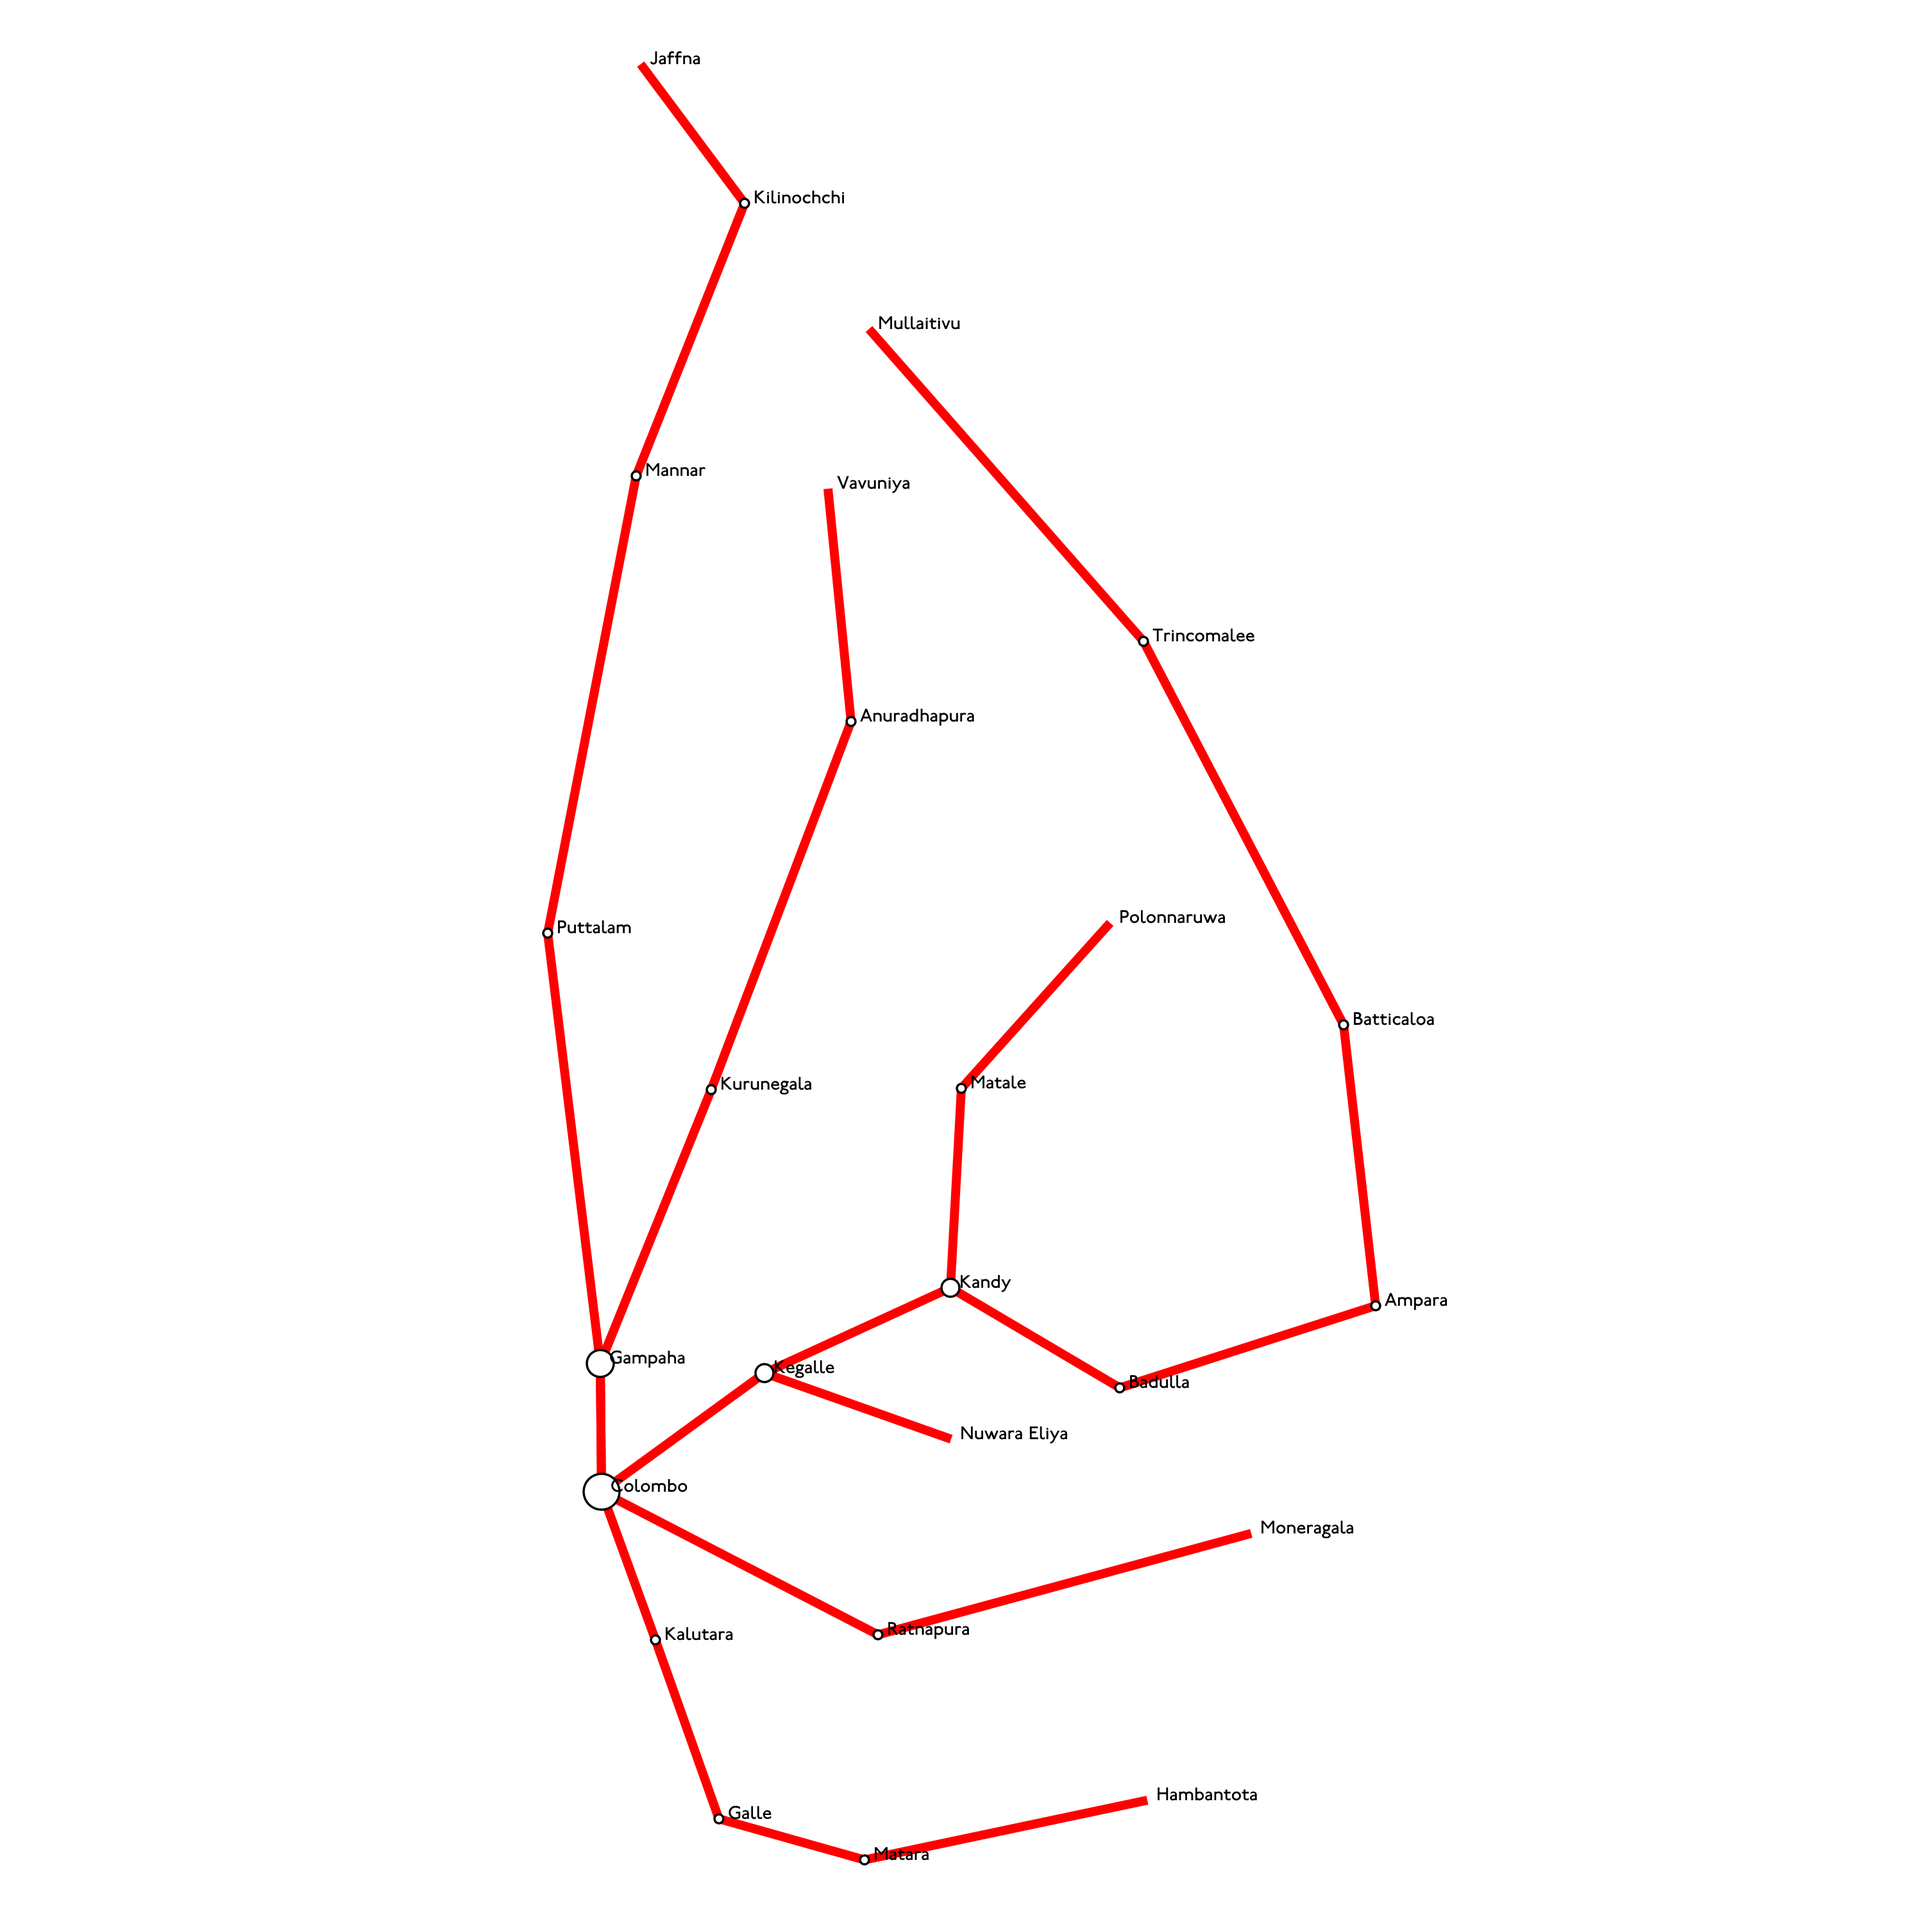
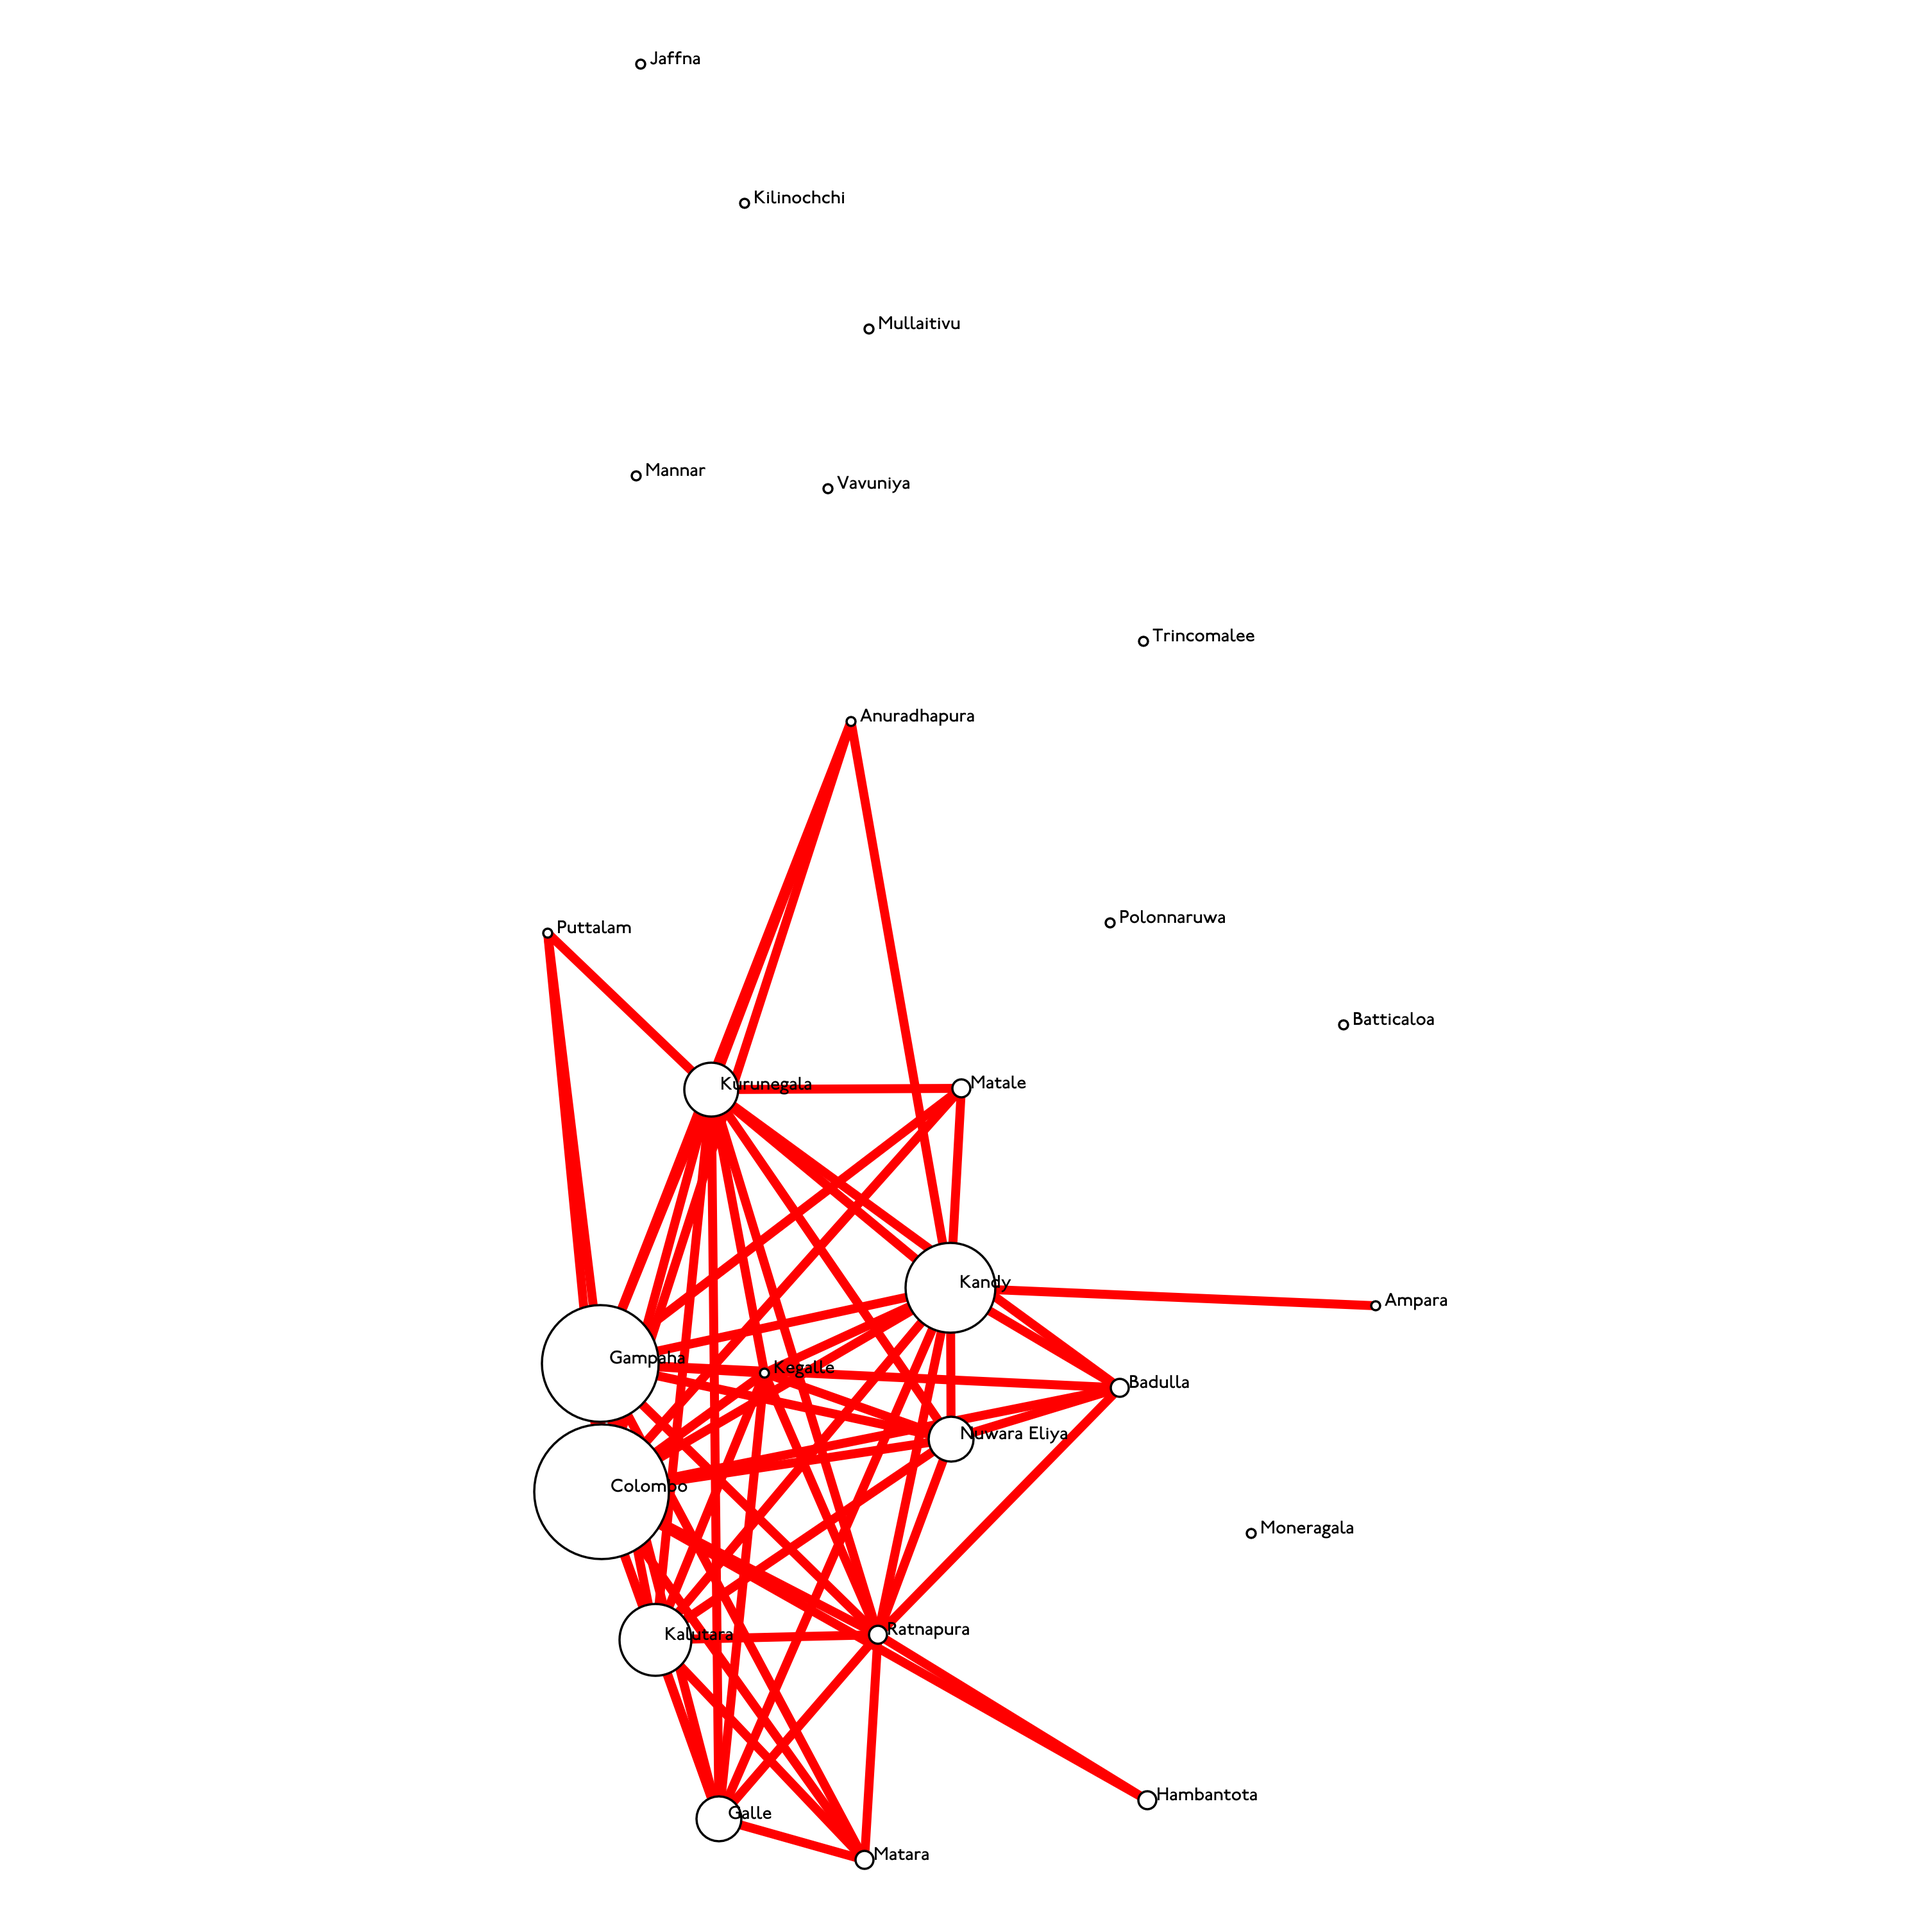
single_segments

diff --git a/src/lgn/custom_edges/single_segments.py b/src/lgn/custom_edges/single_segments.py
@@ -1,0 +1,34 @@
+from utils import Log
+
+log = Log('single_segments')
+
+
+def rebuild(network, n_segments):
+    node_list = network.node_list
+    n = len(node_list)
+
+    score_list = []
+    for i in range(n-1):
+        node_i = node_list[i]
+        population_i = network.node_idx[node_i]['population']
+        xi, yi = network.node_idx[node_i]['centroid']
+
+        for j in range(i+1, n):
+            node_j = node_list[j]
+            population_j = network.node_idx[node_j]['population']
+            xj, yj = network.node_idx[node_j]['centroid']
+
+            distance = ((xi - xj) ** 2 + (yi - yj) ** 2) ** 0.5
+            score = (population_i * population_j) / distance 
+            
+            score_list.append([score, node_i, node_j])
+
+
+    score_list_sorted = sorted(score_list, key=lambda x: x[0], reverse=True)
+    edge_pair_list = []
+    for i in range(0, n_segments):
+        score, node_i, node_j = score_list_sorted[i]
+        edge_pair_list.append([node_i, node_j])
+
+    network.edge_pair_list = edge_pair_list
+    return network

diff --git a/workflows/rail_network.py b/workflows/rail_network.py
@@ -1,7 +1,7 @@
 from gig import EntType
 
 from lgn import Draw, Network, Styler
-from lgn.custom_edges import road_network
+from lgn.custom_edges import single_segments
 
 def is_close_enough(centroid):
     x1, y1 = centroid
@@ -11,7 +11,7 @@ def is_close_enough(centroid):
 
 if __name__ == '__main__':
     network = Network.from_type(EntType.DISTRICT, lambda ent: is_close_enough(ent.centroid))
-    network = road_network.rebuild(network)
+    network = single_segments.rebuild(network, n_segments=60)
 
     styler = Styler()
     draw = Draw(network, styler)

diff --git a/src/lgn/core/network.py b/src/lgn/core/network.py
@@ -99,6 +99,10 @@ class Network:
     def loc_list(self):
         return [node['centroid'] for node in self.node_idx.values()]
 
+    @cached_property
+    def node_list(self):
+        return list(self.node_idx.keys())
+
     @property
     def neighbor_idx(self):
         neighbor_idx = {}
@@ -112,3 +116,5 @@ class Network:
     @property 
     def junction_set(self):
         return set([id for id, neighbor_list in self.neighbor_idx.items() if len(neighbor_list) > 2])
+
+    

diff --git a/src/lgn/render/draw_node.py b/src/lgn/render/draw_node.py
@@ -13,7 +13,7 @@ class DrawNode:
             | dict(
                 cx=sx,
                 cy=sy,
-                r=self.styler.RADIUS * n_neighbors,
+                r=self.styler.RADIUS * (n_neighbors + 1),
             ),
         )
 

diff --git a/src/lgn/custom_edges/breadth_first.py b/src/lgn/custom_edges/breadth_first.py
@@ -1,6 +1,6 @@
 from utils import Log
 
-log = Log('road_network')
+log = Log('breadth_first')
 
 
 def node_cmp(network, id):
